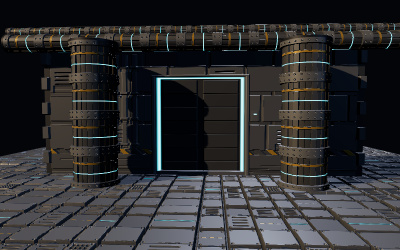
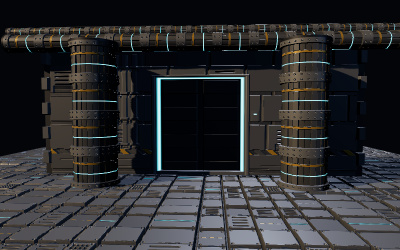
Examples: Add shadow accuracy modes to webgpu_materials_parallaxmap.
A 'shadows' setting steps through off / geometry / carved / relief:
carved re-runs the coverage march in the shadow pass so cast shadows
follow the relief silhouettes, and relief additionally samples received
shadows at the marched hit position via receivedShadowPositionNode, so
shadow edges follow the relief instead of the base surface.

diff --git a/examples/webgpu_materials_parallaxmap.html b/examples/webgpu_materials_parallaxmap.html
@@ -41,7 +41,7 @@
 		<script type="module">
 
 			import * as THREE from 'three/webgpu';
-			import { Fn, cameraViewMatrix, color, float, mix, normalLocal, normalMap, pass, positionLocal, texture, textureLevel, uniform, uv, vec2, vec3, vec4 } from 'three/tsl';
+			import { Fn, bitangentWorld, cameraViewMatrix, color, float, mix, normalLocal, normalMap, normalWorld, pass, positionLocal, positionWorld, tangentWorld, texture, textureLevel, uniform, uv, vec2, vec3, vec4 } from 'three/tsl';
 
 			import { Inspector } from 'three/addons/inspector/Inspector.js';
 
@@ -77,6 +77,7 @@
 				selfShadow: true,
 				scale: 0.15,
 				quality: 'medium',
+				shadows: 'relief',
 				bloom: false,
 				keyAzimuth: - 59,
 				keyElevation: 29,
@@ -221,7 +222,7 @@
 					const material = new THREE.MeshStandardNodeMaterial();
 					material.positionNode = positionLocal.add( normalLocal.mul( depthScale.mul( reliefFactor * tileAround ) ) );
 
-					shellMaterials.push( { material, aroundTiles, ringTiles, reliefFactor } );
+					shellMaterials.push( { material, aroundTiles, ringTiles, reliefFactor, tileAround, tileAlong: length / ringTiles } );
 
 					const shell = new THREE.Mesh( shellGeometry, material );
 					shell.castShadow = shell.receiveShadow = true;
@@ -919,9 +920,9 @@
 			// feathers to zero where the march left the height field, and
 			// alpha to coverage antialiases the clipped edge.
 
-			function applyPlatingMaterial( material, map, mapSize, scale, reliefOptions ) {
+			function applyPlatingMaterial( material, map, mapSize, scale, worldPerTile, reliefWorld, reliefOptions ) {
 
-				const { sample, coverage, shadow, normalNode } = buildRelief( map, {
+				const { pomUV, sample, coverage, shadow, normalNode } = buildRelief( map, {
 					scale: scale,
 					texel: 1.0 / mapSize,
 					...reliefOptions
@@ -956,17 +957,37 @@
 				material.alphaTestNode = coverage !== null ? float( 0.5 ) : null;
 				material.alphaToCoverage = coverage !== null;
 
-				// carve the cast shadows too: the shadow pass re-runs the march
-				// from the light's point of view, so shadow silhouettes follow
-				// the relief instead of the smooth base geometry
+				// the "shadows" ladder: geometry keeps plain shadow maps; carved
+				// re-runs the coverage march in the shadow pass (it evaluates
+				// from the light's camera there), so shadow silhouettes follow
+				// the relief; relief additionally samples the received shadows
+				// at the marched hit position, so shadow edges crawl across the
+				// relief instead of projecting onto the base surface.
 
-				material.castShadowNode = coverage !== null ? Fn( () => {
+				const carve = settings.shadows === 'carved' || settings.shadows === 'relief';
+
+				material.castShadowNode = ( coverage !== null && carve ) ? Fn( () => {
 
 					coverage.lessThan( 0.5 ).discard();
 
 					return vec4( 0.0, 0.0, 0.0, 1.0 );
 
 				} )() : null;
+
+				if ( settings.parallax === true && settings.shadows === 'relief' ) {
+
+					const reliefOffset = pomUV.sub( reliefOptions.uvNode || uv() );
+
+					material.receivedShadowPositionNode = positionWorld
+						.add( tangentWorld.normalize().mul( reliefOffset.x.mul( worldPerTile[ 0 ] ) ) )
+						.add( bitangentWorld.normalize().mul( reliefOffset.y.mul( worldPerTile[ 1 ] ) ) )
+						.sub( normalWorld.normalize().mul( float( 1.0 ).sub( height ).mul( reliefWorld ) ) );
+
+				} else {
+
+					material.receivedShadowPositionNode = null;
+
+				}
 
 				material.normalNode = normalNode;
 				material.roughnessNode = mix( float( 0.66 ), float( 0.32 ), tone.min( 0.78 ) );
@@ -983,7 +1004,7 @@
 				// wall's outline crenellates along the border trim. The relief
 				// depth converts from world units through the wall height.
 
-				applyPlatingMaterial( wallMaterial, wallMap, WALL_MAP_SIZE, depthScale.mul( 1.2 / WALL_HEIGHT ), {
+				applyPlatingMaterial( wallMaterial, wallMap, WALL_MAP_SIZE, depthScale.mul( 1.2 / WALL_HEIGHT ), [ WALL_WIDTH, WALL_HEIGHT ], depthScale.mul( 1.2 ), {
 					silhouette: settings.silhouette
 				} );
 
@@ -994,9 +1015,9 @@
 				// along its length, so marches along the axis stay level and
 				// the relief holds up when sighting down a pipe.
 
-				for ( const { material, aroundTiles, ringTiles, reliefFactor } of shellMaterials ) {
+				for ( const { material, aroundTiles, ringTiles, reliefFactor, tileAround, tileAlong } of shellMaterials ) {
 
-					applyPlatingMaterial( material, columnMap, COLUMN_MAP_SIZE, depthScale.mul( reliefFactor ), {
+					applyPlatingMaterial( material, columnMap, COLUMN_MAP_SIZE, depthScale.mul( reliefFactor ), [ tileAround, tileAlong ], depthScale.mul( reliefFactor * tileAround ), {
 						silhouette: settings.silhouette,
 						uvNode: uv().mul( vec2( aroundTiles, ringTiles ) ),
 						silhouetteBounds: [ - 1e6, 1e6 ],
@@ -1009,7 +1030,7 @@
 				// slab deck: repeating UVs, so the march runs without the
 				// silhouette test
 
-				applyPlatingMaterial( floorMaterial, floorMap, FLOOR_MAP_SIZE, depthScale.mul( 0.4 ), {
+				applyPlatingMaterial( floorMaterial, floorMap, FLOOR_MAP_SIZE, depthScale.mul( 0.4 ), [ 3.2, 3.2 ], depthScale.mul( 0.4 * 3.2 ), {
 					silhouette: false,
 					uvNode: uv().mul( 5 )
 				} );
@@ -1042,6 +1063,12 @@
 				gui.add( settings, 'parallax' ).onChange( updateMaterials );
 				gui.add( settings, 'silhouette' ).onChange( updateMaterials );
 				gui.add( settings, 'selfShadow' ).onChange( updateMaterials );
+				gui.add( settings, 'shadows', [ 'off', 'geometry', 'carved', 'relief' ] ).onChange( ( value ) => {
+
+					keyLight.castShadow = value !== 'off';
+					updateMaterials();
+
+				} );
 				gui.add( settings, 'scale', 0, 0.25 ).onChange( ( value ) => depthScale.value = value );
 				gui.add( settings, 'quality', Object.keys( QUALITIES ) ).onChange( updateMaterials );
 				gui.add( settings, 'bloom' );
